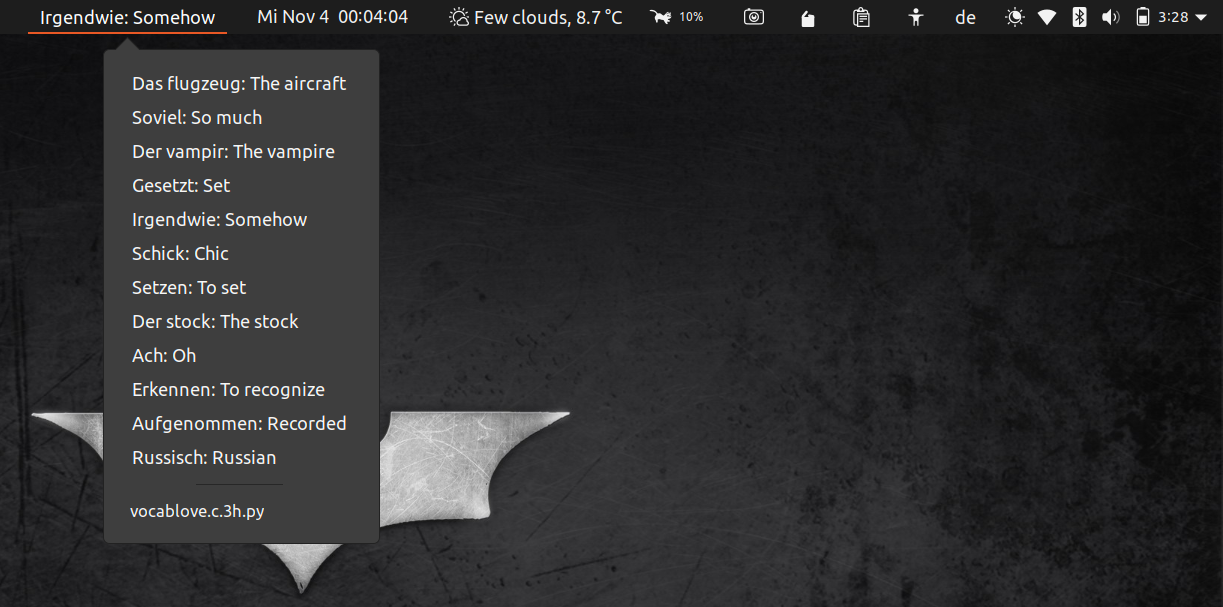
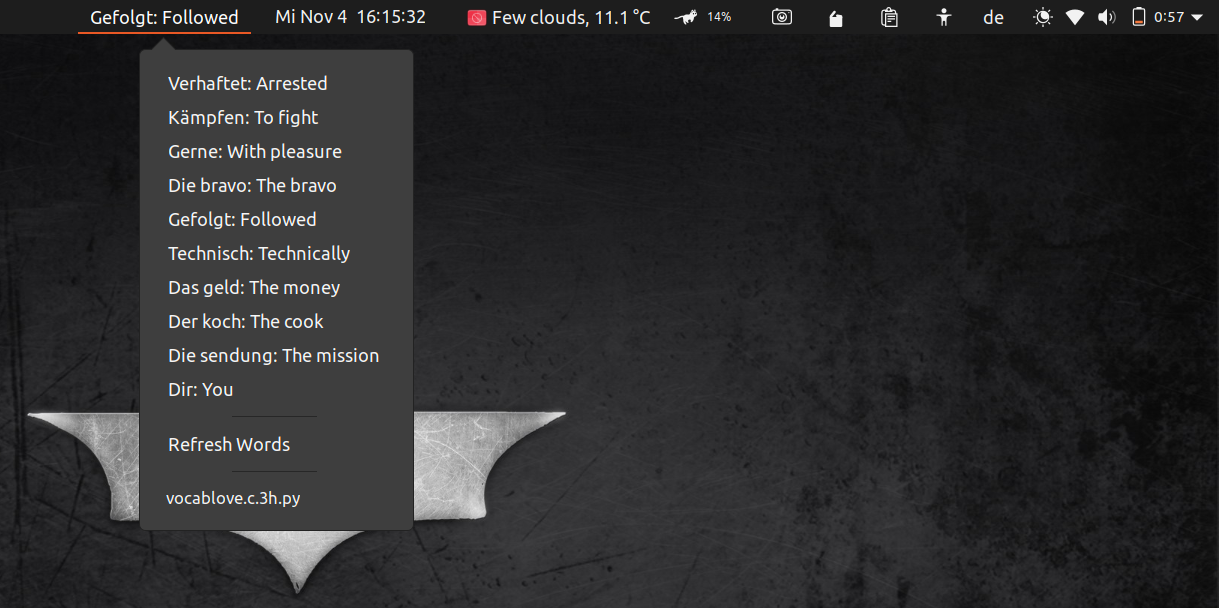
Add Refresh words button, update README.md

diff --git a/vocablove.c.3h.py b/vocablove.c.3h.py
@@ -3,12 +3,14 @@
 import re
 import requests
 
+german_words = "https://www.bestrandoms.com/random-german-words"
 
-def getWordsList():
+
+def getWordsList(word_source: str) -> list:
     """Return list of words from the link."""
 
     # read raw html from the webpage
-    r = requests.get("https://www.bestrandoms.com/random-german-words")
+    r = requests.get(word_source)
     text = r.text
 
     # tag to get words from
@@ -30,17 +32,25 @@ def getWordsList():
     return words_list
 
 
-# get 2 word list
-# 6 new words for each list
-word_list_1 = getWordsList()
-word_list_2 = getWordsList()
-words_12_list = word_list_1 + word_list_2
+def getWordsDict():
+    """Returns a dictionary of words with their translation."""
+    # get 2 word list
+    # 6 new words for each list
+    word_list_1 = getWordsList(german_words)
+    word_list_2 = getWordsList(german_words)
+    words_12_list = word_list_1 + word_list_2
 
-# create dictionary from list
-word_itr = iter(words_12_list)
-word_dict = dict(zip(word_itr, word_itr))
+    # create dictionary from list
+    word_itr = iter(words_12_list)
+    word_dict = dict(zip(word_itr, word_itr))
+    return word_dict
 
-# print the words
-for key, value in word_dict.items():
+
+# print the words to consol
+for key, value in getWordsDict().items():
     if key != value:
         print(key + ": " + value)
+
+print("---")
+# option to refresh the word list
+print("Refresh Words | refresh=true")

diff --git a/README.md b/README.md
@@ -11,10 +11,17 @@ Since the website generates 6 words at a time, the script displays a maximum of 
 * [Argos](https://github.com/rammie/argos/tree/gnome-3.36) (Install gnome-3.36 branch)
 * [Python 3](https://www.python.org/)
 
-It's fairly simple to install this extension. After installing **Argos,**  copy the above python script to `~/.config/argos` and make the file executable by `chmod +x vocablove.c.3h.py ` . File name follows the Argos recommended filename format **filename.position.intervel.extention**. Once the script is executable, you should be able to see the words on the top panel.
+It's fairly simple to install this extension. After installing **Argos,**  copy the above python script to `~/.config/argos` and make the file executable by `chmod +x vocablove.c.3h.py ` . File name follows the Argos recommended filename format 
+
+```
+NAME.POSITION.INTERVAL[+].EXTENSION
+```
+
+Once the script is executable, you should be able to see the words on the top panel.
 
 ### How to make changes?
 
++ Words changes every 3 seconds. I think this is too fast, especially when it's a new word. You can change the interval easily, by just changing it in the source code of [Argos](https://github.com/rammie/argos/tree/gnome-3.36). Go to the `argos@pew.worldwidemann.com/buttons.js` file in `argos` and change the seconds from **3** to **7** (recommend) or more in line 151 `this._cycleTimeout = Mainloop.timeout_add_seconds(3, Lang.bind(this, function()`.
 + Available positions: `l | c | r`. You can change the position by changing the file name.
 + Depending on your speed of learning and the amount of time you spend on screen, you can change the frequency of script execution. Available intervals:  number+`s | h | d | y` .You can change the frequency of script execution by changing the file name accordingly. Ex: 2d means the word list gets refreshed every 2 days.
 
@@ -24,12 +31,13 @@ It's fairly simple to install this extension. After installing **Argos,**  copy 
 
 ## To Do
 
-- [ ] Reduce the speed of change
+- [ ] Reduce the speed of change directly from extension
 - [ ] Add more languages
 - [ ] Add option to select between languages
 - [ ] Option to refresh word list
 - [ ] Increase/Decrease number of words
 - [ ] Add multiple sources to get the random words (online, local files)
+- [ ] Save words to a local text file
 - [ ] Add check box for learned words and save them to a local text file
 
 ## Thanks to
